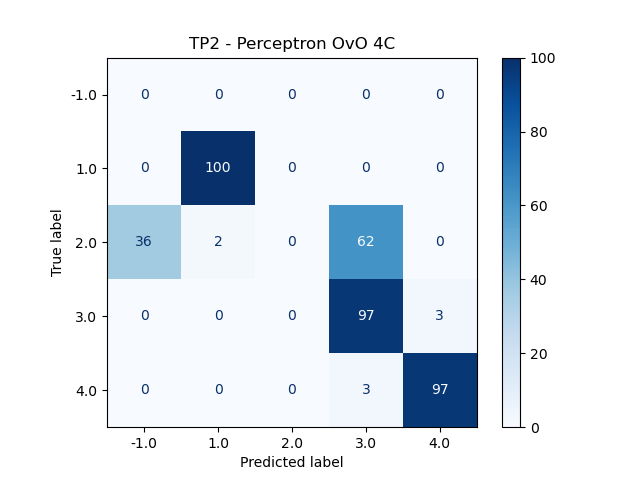
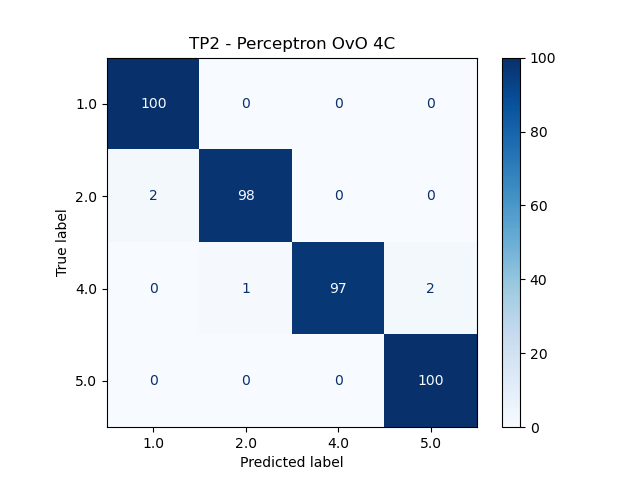
Version finale du code et du rapport du projet

diff --git a/README.md b/README.md
@@ -1,9 +1,12 @@
-# Projet de Machine Learning : Évaluation et Comparaison de Classifieurs
+# Projet de Machine Learning : [M2 BIMS] Apprentissage Automatique
+
+Auteur : Noé Méderlet
+
+github : https://github.com/Medernoe/Projet_Machine_Learning
 
 ## Introduction
 Ce rapport présente l'évaluation et la comparaison de divers algorithmes de classification supervisée (Gaussien, $k$-PPV, fenêtre de Parzen, Perceptron et Bagging) appliqués à trois jeux de données bidimensionnels. L'objectif est d'analyser les performances de chaque modèle à l'aide de matrices de confusion et de taux de bonne classification, tout en optimisant leurs hyperparamètres via validation croisée . L'étude de ces trois jeux de données, présentant des degrés de séparabilité et des topologies différentes, permet d'oberserver théoriquement et empiriquement la robustesse des classifieurs face à la complexité géométrique des frontières de décision.
 
----
 
 ## 1. Analyses descriptives
 
@@ -73,7 +76,7 @@ En ignorant les termes constants et en multipliant par $-2$, minimiser $-2 g_i(x
    $$D_{eucl}(x, \mu_i) = \sqrt{\sum_{j=1}^{d} (x_j - \mu_{ij})^2}$$
    *Utilisation :* Idéale pour des classes sphériques (isotropes) de même taille.
 
-2. **Distance de Mahalanobis :** Si l'on suppose que toutes les classes partagent la même matrice de covariance ($\Sigma_i = \Sigma$), le terme $\ln |\Sigma_i|$ devient constant et s'annule. La décision repose alors sur la distance de Mahalanobis, qui prend en compte les corrélations entre variables et les différences d'échelles :
+2. **Distance de Mahalanobis :** Si l'on suppose que toutes les classes partagent la même matrice de covariance ($\Sigma_i = \Sigma$), le terme $\ln |\Sigma_i|$ devient constant et s'annule. La décision repose alors sur la distance de Mahalanobis, qui prend en compte les corrélations entre variables.
    $$D_{mahal}^2(x, \mu_i) = (x - \mu_i)^t \Sigma^{-1} (x - \mu_i)$$
    *Utilisation :* Adaptée lorsque les classes ont des formes elliptiques similaires et orientées dans la même direction.
 
@@ -95,18 +98,20 @@ Les performances globales (taux de bonne classification) reflètent la  séparab
 Cependant, l'analyse géométrique des frontières de décision révèle le comportement distinct de chaque métriques de décisions.
 
 ##### 1. Distance Euclidienne 
-En supposant que toutes les variables sont indépendantes et de même variance, la distance euclidienne génère des frontières de décision linéaires. Bien que le score soit de $99.2\%$, l'algorithme "ignore" l'étirement des classes. Les rares erreurs (visibles sur la matrice de confusion) se produisent aux extrémités des classes étirées, où un point éloigné du centre de sa propre classe se retrouve géométriquement plus proche du centre d'une classe voisine.
+La distance euclidienne génère des frontières de décision linéaires. Bien que le score soit de $99.2\%$, l'algorithme ignore l'étirement des classes. Les rares erreurs (visibles sur la matrice de confusion) se produisent aux extrémités des classes étirées, où un point éloigné du centre de sa propre classe se retrouve géométriquement plus proche du centre d'une classe voisine.
 
 | Frontière de décision Euclidienne | Matrice de confusion Euclidienne |
 | :---: | :---: |
 | ![Frontière Euclidienne](images/tp1_gauss_eucl_frontiere.png) | ![CM Euclidienne](images/tp1_gauss_eucl_cm.png) |
 
+
 ##### 2. Distance de Mahalanobis ($\Sigma_i = \Sigma$)
-En utilisant une matrice de covariance moyenne globale, les frontières de décision ne sont plus linéaires, mais sont désormais orientées et ajustées pour prendre en compte l'allongement des classes du jeu de données (covariance). Le modèle gagne légèrement en précision ($99.6\%$), corrigeant certaines erreurs.
+Les frontières de décision ne sont plus linéaires, mais sont désormais orientées et ajustées prennant en compte l'allongement des classes du jeu de données (covariance). Le modèle gagne légèrement en précision ($99.6\%$), corrigeant certaines erreurs.
 
 | Frontière de décision Mahalanobis | Matrice de confusion Mahalanobis |
 | :---: | :---: |
 | ![Frontière Mahalanobis](images/tp1_gauss_mahal_frontiere.png) | ![CM Mahalanobis](images/tp1_gauss_mahal_cm.png) |
+
 
 ##### 3. Log-Vraisemblance (Covariances distinctes $\Sigma_i$)
 Bien qu'il s'agisse du modèle théoriquement parfait pour ce TP, il obtient un score de $99.6\%$ (identique à mahalanobis) et génère des frontières de décision identiques à celles estimées avec la distance de Mahalanobis. Par conséquent, les classifications sont identiques. Empiriquement, l'utilisation de cette métrique n'a donc apporté aucune amélioration par rapport à la méthode précédente.
@@ -117,8 +122,9 @@ Bien qu'il s'agisse du modèle théoriquement parfait pour ce TP, il obtient un 
 
 **Conclusion TP1 :** La grande distance inter-classes permet à des modèles simples (Euclidien) de très bien performer. Néanmoins, l'observation des frontières de décision démontre que la distance de Mahalanobis et la Log-Vraisemblance sont les seul modèle capturant la véritable topologie (hétéroscédasticité) des données.
 
+---
 
-### Évaluation sur le jeu de données TP2
+#### Évaluation sur le jeu de données TP2
 
 Comme anticipé lors de l'analyse descriptive, le jeu de données TP2 présente une complexité supérieure due à un fort chevauchement des classes au centre de l'espace. Cette imbrication rend une séparation parfaite impossible, ce qui se traduit par une baisse logique des performances globales par rapport au TP1.
 
@@ -129,32 +135,34 @@ Les taux de bonne classification observés sont les suivants :
 
 Paradoxalement, ce n'est pas le modèle le plus complexe (Log-Vraisemblance) qui obtient le meilleur score, mais le modèle intermédiaire (Mahalanobis). L'analyse des frontières permet d'expliquer ce phénomène empirique.
 
-#### 1. Distance Euclidienne 
+##### 1. Distance Euclidienne 
 Les frontières sont linéaires et l'algorithme suppose des classes circulaires isotropes. Sur la matrice de confusion, on constate que les erreurs se concentrent massivement entre les classes centrales fortement imbriquées. L'incapacité du modèle à s'adapter à l'étirement des données limite ses performances à $94.6\%$.
 
 | Frontière de décision Euclidienne | Matrice de confusion Euclidienne |
 | :---: | :---: |
 | ![Frontière Euclidienne](images/tp2_gauss_eucl_frontiere.png) | ![CM Euclidienne](images/tp2_gauss_eucl_cm.png) |
 
-#### 2. Distance de Mahalanobis ($\Sigma_i = \Sigma$)
+##### 2. Distance de Mahalanobis ($\Sigma_i = \Sigma$)
 Dans ce cas, les meilleures performances sont obtenues avec cette métrique, les frontières s'orientent différemment et épousent bien mieux la topologie des classes. Toutefois, en raison d'une variance très élevée dans la classe 3, une zone géométriquement plus proche du barycentre de la classe 5 (en distance euclidienne) se retrouve assignée à la classe 3 (zone verte au bord gauche). Bien que cette déformation de la frontière puisse s'apparenter à un surapprentissage sur les données, l'absence de points de test dans cette zone spécifique évite de pénaliser ou validé le modèle. Au final, c'est cette capacité d'adaptation globale aux variances des distributions qui lui permet de mieux généraliser et d'obtenir le meilleur score ($95.4\%$).
 
 | Frontière de décision Mahalanobis | Matrice de confusion Mahalanobis |
 | :---: | :---: |
 | ![Frontière Mahalanobis](images/tp2_gauss_mahal_frontiere.png) | ![CM Mahalanobis](images/tp2_gauss_mahal_cm.png) |
 
-#### 3. Log-Vraisemblance (Covariances distinctes $\Sigma_i$)
-Bien que la Log-Vraisemblance trace des frontières capables de mieux isoler la classe 1 (horizontale) et la classe 5 (verticale), ce degré de liberté supplémentaire la dessert dans la zone de fort chevauchement central. Les frontières courbées ont tendances à trop coller à la distribution de la base d'apprentissage (sur apprentissage). De plus, on observe le meme sur apprentissage avec la zone très éloigné du baricentre 3. 
+##### 3. Log-Vraisemblance (Covariances distinctes $\Sigma_i$)
+Bien que la Log-Vraisemblance trace des frontières capables de mieux isoler la classe 1 (horizontale) et la classe 5 (verticale), ce degré de liberté supplémentaire la dessert dans la zone de fort chevauchement central, en effet il est possible d'observer de très légère différences avec les délimitations obtenue via mahalanobis. Les frontières courbées ont tendances à trop coller à la distribution de la base d'apprentissage (sur apprentissage). De plus, on observe le meme sur apprentissage avec la zone verte très éloigné du baricentre 3. 
 
 | Frontière de décision Log-Vraisemblance | Matrice de confusion Log-Vraisemblance |
 | :---: | :---: |
 | ![Frontière Log-Vraisemblance](images/tp2_gauss_logv_frontiere.png) | ![CM Log-Vraisemblance](images/tp2_gauss_logv_cm.png) |
 
-**Conclusion TP2 :** Ce jeu de données illustre un principe fondamental du Machine Learning, face à des données bruitées et se chevauchant fortement, un modèle plus complexe (Log-Vraisemblance) n'est pas toujours le plus performant. Un modèle plus contraint (Mahalanobis) offre souvent une meilleure généralisation.
+**Conclusion TP2 :** Ce jeu de données illustre un principe fondamental du Machine Learning, face à des données bruitées et se chevauchant fortement, un modèle plus complexe (Log-Vraisemblance) n'est pas toujours le plus performant. Un modèle plus contraint (Mahalanobis) peut offrir de meilleurs résultats tout en nécessitant des ressources computationnelles moindres.
 
-### Évaluation sur le jeu de données TP3
+---
 
-Le jeu de données TP3 met en lumière les limites fondamentales des modèles paramétriques. Comme observé lors de l'analyse descriptive, les classes présentent des topologies complexes qui ne suivent pas du tout l'hypothèse de distribution normale sous-jacente à ces algorithmes.
+#### Évaluation sur le jeu de données TP3
+
+Le jeu de données TP3 met en évidences une des limites des modèles paramétriques. Comme observé lors de l'analyse descriptive, les classes présentent des topologies complexes qui ne semblent pas suivre une hypothèse de distribution normale sous-jacente à ces algorithmes.
 
 En conséquence, les performances diminuent de manière significative par rapport aux jeux de données précédents :
 * **Distance Euclidienne :** $72.8\%$
@@ -163,21 +171,21 @@ En conséquence, les performances diminuent de manière significative par rappor
 
 Ici, aucun des modèles gaussiens ne parvient à modéliser correctement la réalité géométrique des données.
 
-#### 1. Distance Euclidienne 
-Bien qu'il s'agisse du modèle le plus simple, il obtient le meilleur score ($72.8\%$). En découpant l'espace de manière strictement linéaire à partir des centres de gravité, il parvient à isoler grossièrement certaines masses de points. Cependant, face à des classes qui s'encerclent, la séparation linéaire coupe arbitrairement les distributions en deux, générant de lourdes erreurs visibles sur la matrice de confusion. Il est notamment difficile pour le modèle de classer les points de la classe 1, comme observer sur le plot de frontière de décision ces derniers ont tendance à se retrouver dans les zones de décision attribuées aux autres classes (D'ou le grand nombre d'erreur pour la classe 1 dans la matrice de confusion).
+##### 1. Distance Euclidienne 
+Bien qu'il s'agisse du modèle le plus simple, il obtient le meilleur score ($72.8\%$). En découpant l'espace de manière strictement linéaire à partir des centres de gravité, il parvient à isoler grossièrement certaines masses de points. Cependant, face à des classes qui s'encerclent, la séparation linéaire coupe arbitrairement les distributions en deux, générant de lourdes erreurs visibles sur la matrice de confusion. Il est notamment difficile pour le modèle de classer les points de la classe 1, comme observé sur le graphique de la frontière de décision, ces derniers ont tendance à se retrouver dans les zones de décision attribuées aux autres classes (d'où le grand nombre d'erreurs pour la classe 1 dans la matrice de confusion).
 
 | Frontière de décision Euclidienne | Matrice de confusion Euclidienne |
 | :---: | :---: |
 | ![Frontière Euclidienne](images/tp3_gauss_eucl_frontiere.png) | ![CM Euclidienne](images/tp3_gauss_eucl_cm.png) |
 
-#### 2. Distance de Mahalanobis ($\Sigma_i = \Sigma$)
+##### 2. Distance de Mahalanobis ($\Sigma_i = \Sigma$)
 L'algorithme déforme l'espace de manière inappropriée pour tenter de trouver un compromis. Le score chute à $69.4\%$ et les frontières de décision s'avèrent totalement inadaptées à la forme des nuages de points. On observe notamment de nombreux points de la classe 1 situés dans les régions de décision des autres classes, ainsi qu'une zone de surapprentissage pour cette même classe 1 en raison de sa forte variance.
 
 | Frontière de décision Mahalanobis | Matrice de confusion Mahalanobis |
 | :---: | :---: |
 | ![Frontière Mahalanobis](images/tp3_gauss_mahal_frontiere.png) | ![CM Mahalanobis](images/tp3_gauss_mahal_cm.png) |
 
-#### 3. Log-Vraisemblance (Covariances distinctes $\Sigma_i$)
+##### 3. Log-Vraisemblance (Covariances distinctes $\Sigma_i$)
 La forme globale des zones de décision reste similaire à celles obtenues avec la distance de Mahalanobis. Cependant, on observe une meilleure adaptation à la topologie des données, avec un étirement des frontières plus ou moins marqué selon les classes. Si cette flexibilité permet d'obtenir un score très légèrement supérieur ($69.8\%$), l'écart ne semble pas significatif. On peut d'ailleurs supposer qu'avec un jeu d'apprentissage différent, les performances de ce modèle pourraient s'avérer plus faibles que celles obtenues avec Mahalanobis.
 
 | Frontière de décision Log-Vraisemblance | Matrice de confusion Log-Vraisemblance |
@@ -185,7 +193,7 @@ La forme globale des zones de décision reste similaire à celles obtenues avec 
 | ![Frontière Log-Vraisemblance](images/tp3_gauss_logv_frontiere.png) | ![CM Log-Vraisemblance](images/tp3_gauss_logv_cm.png) |
 
 ### Conclusion sur l'Estimation de Gaussiennes
-L'étude croisée sur ces trois jeux de données démontre que l'estimation  gaussiennes est extrêmement puissante lorsque l'hypothèse de normalité est respectée (TP1), et qu'un modèle avec covariance globale (Mahalanobis) est plus adapté en cas de chevauchement (TP2), il est également imprtant de noté que la distance euclidienne, bien que tracant des frontière linéaire à souvent produit de très bon résultats proche de mahalnobis. Cependant, face à des distributions non-standards (TP3), ces méthodes paramétriques sont limitées, justifiant le recours à des approches non-paramétriques explorées dans la suite de ce rapport.
+L'étude croisée sur ces trois jeux de données démontre que l'estimation  gaussiennes est extrêmement puissante lorsque l'hypothèse de normalité est respectée (TP1), et qu'un modèle avec covariance globale (Mahalanobis) est plus adapté en cas de chevauchement (TP2), il est également important de noté que la distance euclidienne, bien que tracant des frontière linéaire à souvent produit de très bon résultats proche de mahalnobis. Cependant, face à des distributions plus complexe (TP3), ces méthodes paramétriques sont limitées, justifiant le recours à des approches non-paramétriques explorées dans la suite de ce rapport.
 
 
 ## 3. Algorithme des k Plus Proches Voisins (k-PPV)
@@ -195,7 +203,7 @@ L'algorithme des $k$-PPV est une méthode de classification non-paramétrique qu
 Deux stratégies de décision ont été comparées :
 * **Vote à la majorité :** La classe la plus fréquente parmi les $k$ voisins est assignée à l'individu.
 * **Vote à l'unanimité (ou impartial) :** Exige un consensus (tous les voisins doivent appartenir à la même classe). Dans le cas contraire, le point est rejeté (classe -1).
----
+
 
 ### Évaluation sur le jeu de données TP1
 Grâce à la forte séparabilité des classes, le modèle $1$-PPV offre déjà d'excellents résultats avec une précision de **99.2%**. La validation croisée a déterminé que **$k=5$** était l'hyperparamètre optimal.
@@ -213,7 +221,7 @@ Grâce à la forte séparabilité des classes, le modèle $1$-PPV offre déjà d
 Ce jeu de données présente un fort chevauchement central. Le modèle $1$-PPV atteint **92%**, mais a tendance à surapprendre en créant des îlots isolés autour de points. La 5-CV a sélectionné un voisinage beaucoup plus large : **$k=11$**.
 
 * Le **11-PPV Majorité** améliore significativement le score (**94.8%**). Le fait de consulter 11 voisins agit comme un filtre, il lisse les frontières de décision complexes au centre du nuage de points et ignore le bruit.
-* Le **11-PPV Unanimité** diminue à **68.4%**. Dans les zones de fort chevauchement (classes 2, 3 et 4), il est géométriquement impossible de trouver 11 voisins consécutifs appartenant à la même classe. L'algorithme se retrouve bloqué par l'indécision, cependant la robustesse du 11-PPV réside dans sa capacité à etre sur de la classe des points dans presque **~70%**.
+* Le **11-PPV Unanimité** diminue à **68.4%**. Dans les zones de fort chevauchement (classes 2, 3 et 4), il est géométriquement impossible de trouver 11 voisins consécutifs appartenant à la même classe. L'algorithme se retrouve bloqué par l'indécision, cependant la robustesse du 11-PPV réside dans sa capacité à etre sur de la classe des points dans presque **~70%** et d'assurer un rejet robuste dans **~30%** des cas.
 
 | 1-PPV | 11-PPV Majorité | 11-PPV Unanimité |
 | :---: | :---: | :---: |
@@ -247,12 +255,9 @@ $$\hat{p}(x) = \frac{1}{N h^d} \sum_{i=1}^{N} K\left(\frac{x - x_i}{h}\right)$$
 où $h$ est le paramètre de lissage (fenêtre) et $K$ est le noyau (ex: uniforme ou gaussien). 
 
 Le choix de **$h$** est critique :
-* **Si $h$ est trop petit :** L'estimation est très bruitée (surapprentissage).
-* **Si $h$ est trop grand :** L'estimation est trop lisse (sous-apprentissage, perte de détails).
+* Si $h$ est trop petit : L'estimation est très bruitée (surapprentissage).
+* Si $h$ est trop grand : L'estimation est trop lisse (sous-apprentissage, perte de détails).
 
-
-
----
 
 ### Analyse des résultats
 
@@ -261,11 +266,13 @@ Les noyaux évalués sont **uniforme** et **gaussien**, avec optimisation de $h$
 #### Jeu de données TP1 
 La méthode est robuste ici car elle n'a aucun mal à isoler les classes distinctes.
 * **Accuracy :** Les deux noyaux atteignent des scores de **99.2%**. La précision est excellente, bien que légèrement inférieure aux meilleurs modèles gaussiens.
-* **Observation :** Les matrices de confusion montrent quasiment aucune erreur, validant la capacité du noyau à représenter les densités locales même avec une forme simple (sphérique ou carrée).
+* **Observation :** Les matrices de confusion ne montrent quasiment aucune erreur, validant la capacité du noyau à représenter les densités locales.
 
 | Parzen Uniforme (TP1) | Parzen Gaussien (TP1) |
 | :---: | :---: |
 | ![TP1 Parzen Uniforme](images/tp1_parzen_uniforme_cm.png) | ![TP1 Parzen Gaussien](images/tp1_parzen_gaussien_cm.png) |
+
+--- 
 
 #### Jeu de données TP2 
 Dans cet environnement plus complexe, Parzen reste très performant par rapport aux approches paramétriques .
@@ -276,38 +283,43 @@ Dans cet environnement plus complexe, Parzen reste très performant par rapport 
 | :---: | :---: |
 | ![TP2 Parzen Uniforme](images/tp2_parzen_uniforme_cm.png) | ![TP2 Parzen Gaussien](images/tp2_parzen_gaussien_cm.png) |
 
+--- 
+
 #### Jeu de données TP3
-Parzen surpasse les classifieurs gaussiens (qui plafonnaient à ~70% et présenter de possible sur apprentissage).
-* **Accuracy :** Le noyau uniforme ($h=3.0$) obtient **71.4%** et le gaussien ($h=1.0$) obtient **71.2%**.
+Parzen surpasse les classifieurs gaussiens (qui plafonnaient à ~70% et présentaient de possible sur apprentissage).
+* **Accuracy :** Le noyau uniforme ($h=2.0$) obtient **70.0%** et le gaussien ($h=1.5$) obtient **72.6%**.
 * **Observation :** L'approche non paramétrique épouse bien mieux les formes non convexes et les chevauchements que les modèles gaussiens. Parzen parvient à mieux définir les frontières.
+
+|Frontière de décision Parzen Uniforme (TP3) |Frontière de décision  Parzen Gaussien (TP3) |
+| :---: | :---: |
+| ![TP3 Parzen Uniforme](images/tp3_parzen_uniforme_frontiere.png)  | ![TP3 Parzen Gaussien](images/tp3_parzen_gaussien_frontiere.png) |
 
 | Parzen Uniforme (TP3) | Parzen Gaussien (TP3) |
 | :---: | :---: |
 | ![TP3 Parzen Uniforme](images/tp3_parzen_uniforme_cm.png) | ![TP3 Parzen Gaussien](images/tp3_parzen_gaussien_cm.png) |
 
-### Conclusion sur Parzen
-La fenêtre de Parzen est un classifieur très puissant. Son avantage majeur est de n'avoir aucun apprioris quand à la forme des données, ce qui en fait un meilleur choix que les modèles gaussiens pour les cas complexes (TP3). Toutefois, son coût calculatoire est plus élevé lors de la phase de prédiction, car il nécessite de parcourir l'ensemble de la base d'apprentissage pour chaque nouveau point.
 
+
+### Conclusion sur Parzen
+La fenêtre de Parzen est un classifieur très puissant. Son avantage majeur est de n'avoir aucun apprioris quand à la forme et la distribution des données, ce qui en fait un meilleur choix que les modèles gaussiens pour les cas complexes (TP3). Toutefois, son coût calculatoire est plus élevé lors de la phase de prédiction, car il nécessite de parcourir l'ensemble de la base d'apprentissage pour chaque nouveau point.
 
 ## 5. Perceptron : Séparation Linéaire
 
 Le Perceptron est un modèle de classification linéaire paramétrique. Son principe repose sur la recherche d'un hyperplan séparateur défini par un vecteur de poids $W$ et un biais $a_0$. Pour un point $x \in \mathbb{R}^d$, la décision est prise selon le signe de $f(x) = W^t x + a_0$.
 
-Pour simplifier l'apprentissage, on effectuons une normalisation de l'espace en passant dans $\mathbb{R}^{d+1}$ afin d'intégrer le biais directement dans le vecteur de poids $W = (w_1, \dots, w_d, a_0)$ et en transformant les points de la classe négative $x_2$ en leur opposé : $y_2 = (-x, -1)$. Ainsi, le problème devient la recherche d'un vecteur $W$ tel que, pour tout point $y$ du jeu de données, nous ayons $W^t y > 0$.
+Pour simplifier l'apprentissage, les données ont subies une transformation de l'espace en passant dans $\mathbb{R}^{d+1}$ afin d'intégrer le biais directement dans le vecteur de poids $W = (w_1, \dots, w_d, a_0)$ et une seconde en transformant les points de la classe négative $x_2$ en leur opposé, $y_2 = (-x, -1)$. Ainsi, le problème devient la recherche d'un vecteur $W$ tel que, pour tout point $y$ du jeu de données, nous ayons $W^t y > 0$.
 
 ### Stratégies de classification multi-classes
 * **One-vs-One (OvO) :** On entraîne un classifieur pour chaque paire de classes (pour 5 classes : $5 \times 4 / 2 = 10$ hyperplans). La classe finale est déterminée par un vote majoritaire.
 * **One-vs-All (OvA) :** On entraîne un classifieur par classe, visant à séparer cette classe de toutes les autres (pour 4 classes : 4 hyperplans).
 
-
-
-Contrairement à une approche qui forcerait systématiquement une décision, règle de décision géométrique est appliquée. Si un point se trouve dans une zone ambiguë, c'est-à-dire si plusieurs reconnues comme appartenant à plusieurs classes (conflit), s'il y a égalité parfaite, ou si aucune classe n'est reconnue ($W^t y < 0$). Il est alors assigné à une zone non classable (classe $-1$). Cette approche permet de visualiser les véritables incertitudes géométriques du modèle.
+Contrairement à une approche qui forcerait systématiquement une décision, règle de décision géométrique est appliquée. Si un point se trouve dans une zone ambiguë, c'est-à-dire si reconnues comme appartenant à plusieurs classes avec une égalité parfaite, ou si aucune classe n'est reconnue ($W^t y < 0$). Il est alors assigné à une zone non classable (classe $-1$). Cette approche permet de visualiser les véritables incertitudes géométriques du modèle.
 
 ### Analyse des résultats
 
 #### Jeu de données TP1
 * **Accuracy :** OvO 5C ($99.2\%$), OvO 4C ($99.75\%$), OvA 4C ($75.75\%$).
-* **Observation :** Bien que les classes soient parfaitement disjointes, la méthode OvA subit une chute de performance drastique. La logique d'incertitude stricte révèle ici sa faiblesse, l'espace entre les classes est si vaste que de nombreux points de test tombent dans des "zones vides" où aucun des 4 hyperplans n'est strictement positif. Ces points sont donc rejetés ($-1$). L'approche OvO, en quadrillant l'espace par paires, encadre beaucoup mieux les données et évite ces zones de doute.
+* **Observation :** Bien que les classes soient parfaitement disjointes, la méthode OvA subit une chute de performance drastique. La logique d'incertitude stricte révèle ici sa faiblesse, l'espace entre les classes est si vaste que de nombreux points de test tombent dans des zones vides, ces points sont donc rejetés ($-1$). L'approche OvO, en quadrillant l'espace par paires, encadre beaucoup mieux les données et évite ces zones de doute.
 
 **Frontière de décision (OvA 4C) :**
 ![TP1 OvA Frontière](images/tp1_perc_ova_4c_frontiere.png)
@@ -319,8 +331,9 @@ Contrairement à une approche qui forcerait systématiquement une décision, rè
 ---
 
 #### Jeu de données TP2
-* **Accuracy :** OvO 5C ($74.6\%$), OvO 4C ($73.5\%$), OvA 4C ($44.75\%$).
-* **Observation :** La méthode OvA s'effondre sous la barre des 50 % car l'imbrication des données rend impossible l'isolement d'une classe sans traverser les autres. Le centre du graphique devient une immense zone de conflit où plusieurs perceptrons s'activent simultanément, entraînant un rejet massif des points centraux. L'approche OvO résiste mieux en simplifiant les séparations, mais subit logiquement la limite de la linéarité face au bruit.
+* **Accuracy :** OvO 5C ($74.6\%$), OvO 4C ($98.75\%$), OvA 4C ($45.0\%$).
+* **Observation :** La méthode OvA s'effondre sous la barre des 50 % car l'imbrication des données rend impossible l'isolement d'une classe sans traverser les autres. Le centre du graphique devient une immense zone de conflit où plusieurs perceptrons s'activent simultanément, entraînant un rejet massif des points centraux. L'approche OvO 5C résiste mieux ($74.6\%$) en simplifiant les séparations, mais subit la limite de la linéarité. Comme pour OvA, avec 5 classes le problème n'est pas linéairement séparable, les poids ne sont pas les optimaux d'une solution, mais les meilleurs poids trouvés après un maximum d'itération fixé à 1000. Comme l'on peut le voir avec la droite orange, elle coupe la classe 2 sans la séparer d'aucune autre classe. 
+Lorsque l'on retire la classe centrale (OvO 4C), le score augmente à $98.75\%$. Cela montre que la complexité de ce jeu de données était presque exclusivement causée par l'imbrication de cette classe centrale avec les classes périphériques.
 
 **Frontière de décision (OvA 4C) :**
 ![TP2 OvA Frontière](images/tp2_perc_ova_4c_frontiere.png)
@@ -331,9 +344,9 @@ Contrairement à une approche qui forcerait systématiquement une décision, rè
 
 ---
 
-#### Jeu de données TP3 (Topologies non linéaires)
-* **Accuracy :** OvO 5C ($52.2\%$), OvO 4C ($55.5\%$), OvA 4C ($32.5\%$).
-* **Observation :** Sur ces structures complexes et emboîtées, les hyperplans traversent les classes de part en part. La méthode OvA illustre un échec géométrique total avec un score de $32.5\%$. Aucune droite ne pouvant refermer l'espace pour isoler une classe, le modèle génère des intersections chaotiques et rejette la vaste majorité des points.
+#### Jeu de données TP3
+* **Accuracy :** OvO 5C ($52.2\%$), OvO 4C ($65.75\%$), OvA 4C ($37.0\%$).
+* **Observation :** Sur ces structures complexes et emboîtées, les droites traversent les classes de part en part. La méthode OvA illustre un échec géométrique total avec un score de $37.0\%$. Aucune droite ne pouvant refermer l'espace pour isoler une classe, le modèle génère des intersections chaotiques et rejette une bonne partie des points. L'approche OvO s'en sort à peine mieux, même en retirant la classe centrale (OvO 4C ne remonte qu'à $65.75\%$), car le problème reste non linéaire.
 
 **Frontière de décision (OvA 4C) :**
 ![TP3 OvA Frontière](images/tp3_perc_ova_4c_frontiere.png)
@@ -345,50 +358,50 @@ Contrairement à une approche qui forcerait systématiquement une décision, rè
 ---
 
 ### Conclusion sur le Perceptron et la théorie de la décision
-L'introduction d'une classe de rejet ($-1$) modifie profondément l'évaluation du modèle et illustre parfaitement la **théorie de la décision avec coût**. Dans de nombreux cas concrets, le coût associé à une erreur de classification (faux positif) est bien plus pénalisant que le coût d'une indécision. Permettre au classifieur d'assumer son doute et de "rejeter" un point ambigu est donc une propriété analytique précieuse.
+L'introduction d'une classe de rejet ($-1$) modifie profondément l'évaluation du modèle et illustre parfaitement la théorie de la décision avec coût. Dans de nombreux cas concrets, le coût associé à une erreur de classification (faux positif) est bien plus pénalisant que le coût d'une indécision. Permettre au classifieur d'assumer son doute et de rejeter un point ambigu est donc une propriété analytique précieuse, que l'on ne retrouve qu'avec un perceptron ou un Kppv.
 
-Cependant, cette expérience met en évidence la rigidité du Perceptron, il applique une frontière géométrique "dure" basée uniquement sur le signe d'une équation, sans jamais quantifier son niveau de certitude. Contrairement aux classifieurs statistiques (comme l'estimation de gaussiennes) qui calculent une véritable probabilité *a posteriori* $p(\omega_i|x)$ pour évaluer la fiabilité d'une prédiction, le Perceptron ne nuance pas ses décisions. Cette absence de pondération probabiliste le rend particulièrement vulnérable dans les zones de transition et génère des rejets massifs dès que la topologie des données se complexifie.
+Cependant, cette expérience met en évidence une limite du Perceptron, il applique une frontière géométrique basée uniquement sur le signe d'une équation, sans jamais quantifier son niveau de certitude. Contrairement aux classifieurs statistiques (comme l'estimation gaussiennes) qui calculent une véritable probabilité *a posteriori* $p(\omega_i|x)$ pour évaluer la fiabilité d'une prédiction, le Perceptron ne nuance pas ses décisions. Cette absence de pondération probabiliste le rend particulièrement vulnérable dans les zones de transition et génère des rejets massifs dès que la topologie des données se complexifie.
 
 ## 6. Méthodes d'Ensemble : Bagging (Bootstrap Aggregating)
 
-Le Bagging (Bootstrap Aggregating) est une méthode d'ensemble d'apprentissage conçue pour améliorer la précision des algorithmes d'apprentissage automatique en réduisant leur variance et en évitant le surapprentissage.
+Le Bagging (Bootstrap Aggregating) est une méthode d'apprentissage d'ensemble conçue pour améliorer la précision et la stabilité des algorithmes en réduisant leur variance et en évitant le surapprentissage. 
 
 ### Théorie et principe
-Le principe du Bagging repose sur la combinaison de multiples modèles de base (*weak learners*). L'algorithme se déroule en deux étapes :
-1. **Bootstrap :** Génération de $N$ sous-échantillons d'apprentissage par tirage aléatoire *avec remise* à partir du jeu de données initial. Chaque classifieur est entraîné sur l'un de ces sous-échantillons.
+L'efficacité du Bagging repose sur la combinaison de multiples modèles de base, et s'avère particulièrement pertinente sur des classifieurs dits instables (c'est-à-dire très sensibles aux variations de l'échantillon d'apprentissage, comme les arbres de décision ou le Perceptron). L'algorithme se déroule en deux étapes :
+1. **Bootstrap :** Génération de $N$ sous-échantillons d'apprentissage par tirage aléatoire avec remise à partir du jeu de données initial. Un classifieur est entraîné sur chacun de ces sous-échantillons.
 2. **Agrégation :** Lors de la prédiction, chaque classifieur émet un vote. La décision finale est prise à la majorité (agrégation des prédictions).
 
-Pour ce projet, le nombre optimal d'estimateurs ($N$) a été déterminé via une validation croisée à 5 blocs (5-CV). Le Bagging a été testé sur deux modèles de base : le **Perceptron** (pour dépasser ses limites linéaires) et le **1-PPV** (pour stabiliser sa forte variance).
+Pour ce projet, le nombre optimal d'estimateurs ($N$) a été déterminé via une validation croisée à 5 blocs (5-CV). Le Bagging a été testé sur deux modèles de base : le Perceptron (pour dépasser ses limites linéaires) et le 1-PPV (pour tenter de stabiliser sa variance locale).
 
 ---
 
 ### Analyse des résultats : Bagging Perceptron vs Bagging KNN
 
-#### Jeu de données TP1 (Linéairement séparable)
+#### Jeu de données TP1
 Sur des données simples, les modèles de base étaient déjà excellents.
 * **Bagging Perceptron (N=30) :** $99.4\%$
-* **Bagging KNN (N=5) :** $99.2\%$
-* **Observation :** Les scores sont quasi parfaits. Le Bagging n'apporte ici aucune amélioration car la variance initiale des modèles était déjà faible (les classes étant parfaitement séparées). Un petit nombre d'estimateurs suffit pour le KNN, tandis que le Perceptron bénéficie d'un lissage sur 30 modèles.
+* **Bagging KNN (N=5) :** $99.4\%$
+* **Observation :** Les scores sont quasiment parfaits. Le Bagging n'apporte ici aucune amélioration car la variance initiale des modèles était déjà très faible, les classes étant presque parfaitement séparables. 
 
 | Bagging Perceptron (TP1) | Bagging KNN (TP1) |
 | :---: | :---: |
 | ![TP1 Bagging Perceptron](images/tp1_bag_perc_cm.png) | ![TP1 Bagging KNN](images/tp1_bag_knn_cm.png) |
 
-#### Jeu de données TP2 (Chevauchement)
-C'est dans ce scénario bruité que le Bagging se montre plus efficace.
-* **Bagging Perceptron (N=20) :** $94.8\%$
-* **Bagging KNN (N=5) :** $91.6\%$
-* **Observation :** Le Perceptron simple (OvO) plafonnait à $81\%$. En utilisant un ensemble de 20 Perceptrons, le modèle atteint **$94.8\%$** ! L'agrégation de multiples hyperplans linéaires génère une frontière de décision globale "pseudo-non-linéaire" qui contourne finement les zones de chevauchement. À l'inverse, le Bagging n'aide pas vraiment le 1-PPV ($91.6\%$ contre $92\%$ pour le 1-PPV seul), car le vote majoritaire sur des voisinages très bruités a tendance à moyenner les erreurs sans les résoudre.
+#### Jeu de données TP2 
+C'est dans ce scénario bruité que la différence de nature entre les classifieurs se révèle.
+* **Bagging Perceptron (N=30) :** $95.6\%$
+* **Bagging KNN (N=30) :** $92.0\%$
+* **Observation :** L'apport du Bagging sur un classifieur instable comme le Perceptron est flagrant. En agrégeant 30 hyperplans, le modèle parvient à lisser ses frontières de décision globales. Cette combinaison a complètement corrigé le problème des zones non classées (rejetées à $-1$) qui pénalisait le Perceptron simple. À l'inverse, l'apport sur le 1-PPV est bien moins impressionnant. Bien que le 1-PPV présente une forte variance locale, sa logique de décision reste très déterministe sur le jeu de données, le vote majoritaire sur des voisinages bruités a tendance à moyenner les erreurs sans véritablement les résoudre.
 
 | Bagging Perceptron (TP2) | Bagging KNN (TP2) |
 | :---: | :---: |
 | ![TP2 Bagging Perceptron](images/tp2_bag_perc_cm.png) | ![TP2 Bagging KNN](images/tp2_bag_knn_cm.png) |
 
-#### Jeu de données TP3 (Topologies non linéaires)
+#### Jeu de données TP3 
 Ce jeu de données met à l'épreuve la capacité du Bagging à transformer un classifieur linéaire faible en un modèle complexe.
-* **Bagging Perceptron (N=20) :** $70.4\%$
-* **Bagging KNN (N=5) :** $63.2\%$
-* **Observation :** C'est le résultat le plus spectaculaire du projet. Le Perceptron simple (OvO) était en échec total sur ce TP ($54.6\%$). En appliquant un Bagging de 20 perceptrons, le score passe à **$70.4\%$**. La combinaison d'hyperplans linéaires permet d'approximer des régions de décision convexes pour capturer au mieux les structures complexes des classes. Le Bagging de 1-PPV n'améliore pas le modèle de base ($63.2\%$ contre $64.6\%$ seul).
+* **Bagging Perceptron (N=30) :** $71.0\%$
+* **Bagging KNN (N=10) :** $65.4\%$
+* **Observation :** C'est le résultat le plus spectaculaire. Le Perceptron simple était en échec total sur ce TP, rejetant la grande majorité des points. En appliquant un Bagging de 30 perceptrons, le score passe à **$71.0\%$**. La superposition d'hyperplans linéaires permet de générer des frontières de décision "pseudo-non-linéaires". Il s'agit du seul jeu de données où le Bagging de Perceptron prédit encore quelques points non classés (2 rejets), montrant la capacité du bagging à ne pas être limité par des zones d'incésisons. Le Bagging de 1-PPV, quant à lui, peine toujours à généraliser dans ces zones entremêlées. 
 
 | Bagging Perceptron (TP3) | Bagging KNN (TP3) |
 | :---: | :---: |
@@ -397,12 +410,14 @@ Ce jeu de données met à l'épreuve la capacité du Bagging à transformer un c
 ---
 
 ### Conclusion sur le Bagging
-La combinaison de multiples frontières linéaires permet au Bagging de Perceptron de modéliser des topologies non-linéaires (TP3) et de filtrer le bruit (TP2), validant ainsi tout l'intérêt des méthodes d'ensemble. En revanche, appliquer le Bagging à un 1-PPV sur des données trop imbriquées n'apporte aucun gain.
+Cette étude comparative met en évidence que le Bagging est avant tout redoutable lorsqu'il est appliqué à des modèles instables. La combinaison de multiples frontières linéaires a permis au Perceptron de modéliser des topologies non linéaires (TP3), de filtrer efficacement le bruit (TP2), et surtout d'éliminer ses zones d'indécision géométrique. 
 
----
+En revanche, l'application du Bagging à un algorithme comme le 1-PPV, dont la variance est purement locale, n'apporte que des gains limités face à des données fortement imbriquées. Toutefois, une perspective d'amélioration très pertinente consisterait à appliquer le Bagging sur un classifieur $k$-PPV (avec un $k$ plus élevé) paramétré avec un vote à l'unanimité. Bien que la contrainte d'unanimité isole de nombreux points (zone de rejet), la combinaison de cette exigence stricte avec l'agrégation de multiples sous-échantillons permettrait d'obtenir un modèle de classification extrêmement robuste, garantissant un niveau de certitude maximal sur les prédictions validées.
 
-## Conclusion Générale du Rapport
-L'étude comparative de ces divers classifieurs sur trois topologies de données distinctes met en lumière qu'il n'existe pas d'algorithme "universel". 
-* Si l'hypothèse de normalité est respectée (TP1), les méthodes paramétriques rapides (Gaussien Euclidien) sont suffisantes. 
-* En présence de bruit et de chevauchement (TP2), les méthodes  (Mahalanobis, $k$-PPV Majorité) sont les clés à la résolution du problème. 
-* Face à des géométries complexes (TP3), les approches paramétriques s'effondrent. Il faut alors recourir à des méthodes non paramétriques (Fenêtre de Parzen) ou à la puissance combinatoire des méta-heuristiques (Bagging de Perceptron) pour capturer l'essence des données, Tout en enviseageant l'utilisation de méthode de séparation non linaire, surement plus adaptées dans ce cas. 
+## Conclusion 
+
+L'étude comparative de ces divers classifieurs sur trois topologies de données distinctes illustre parfaitement un principe fondamental de l'apprentissage automatique, il n'existe pas d'algorithme « universel ». Le choix du modèle doit impérativement être dicté par la nature géométrique et la distribution statistique des données.
+
+* **Lorsque l'hypothèse de normalité est respectée et les classes bien disjointes (TP1) :** Les méthodes paramétriques simples et rapides ( Classifier Gaussien Euclidien ou le Perceptron) sont amplement suffisantes. Elles offrent d'excellentes performances pour un coût calculatoire minimal.
+* **En présence de bruit et d'un fort chevauchement (TP2) :** Les modèles rigides montrent leurs limites. Les méthodes capables de s'adapter à la variance directionnelle (Mahalanobis) ou d'appliquer un lissage spatial local ($k$-PPV avec vote majoritaire) deviennent alors les clés de la résolution du problème, car elles limitent le surapprentissage dans les zones d'incertitude.
+* **Face à des géométries complexes et non convexes (TP3) :** Les approches paramétriques linéaires s'effondrent totalement. Il faut alors recourir à des méthodes non paramétriques (Fenêtres de Parzen) ou exploiter la puissance combinatoire des méthode d'ensemble (Bagging de Perceptron) pour espérer capturer la nature des données. Ces limites démontrent que, pour des topologies aussi imbriqués et complexes, la suite logique serait d'envisager l'utilisation de méthodes de séparation non linéaires (comme les réseaux de neurones MLP), qui s'avéreraient surement plus adaptées et performantes. 
